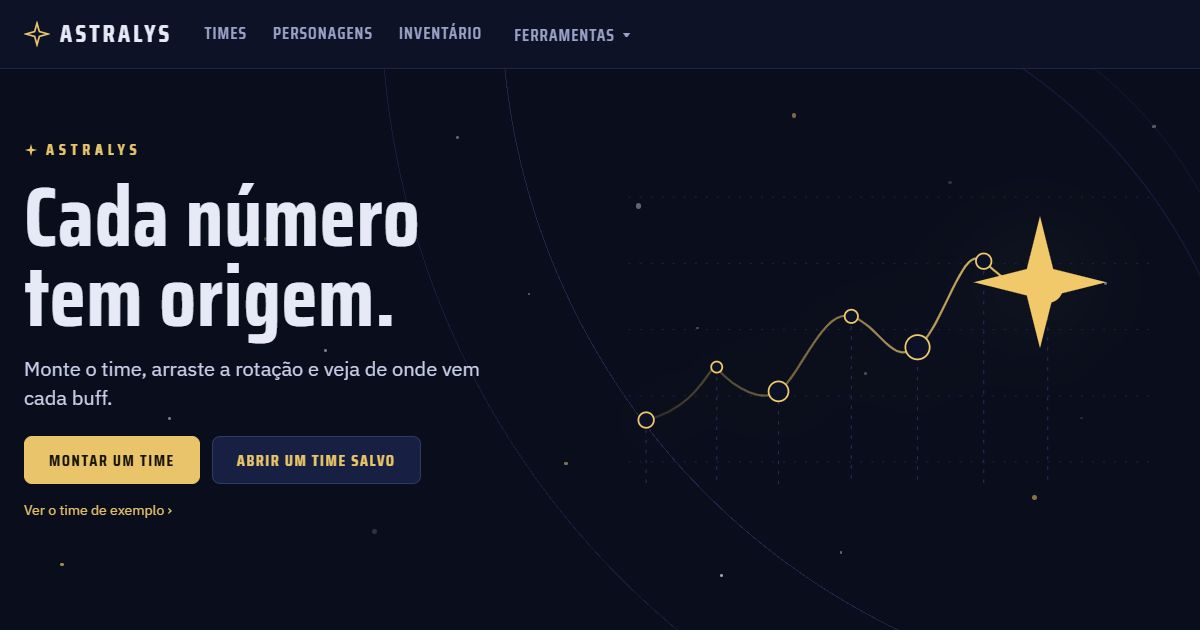
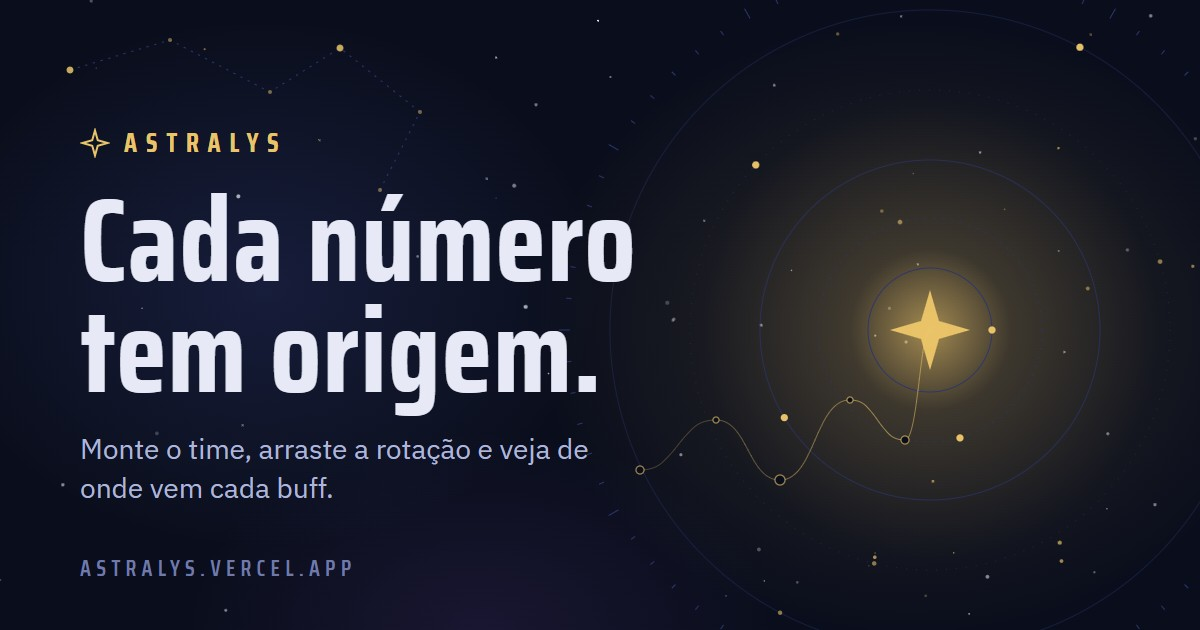
Imagem do link (og.jpg) nova, no estilo da home astral
Céu, constelação, órbitas em volta da estrela dourada e a frase "Cada número tem origem.".
Fonte em scripts/og/og.html; node scripts/og/make-og.cjs gera de novo. ?v=2 nas URLs para os apps de mensagem baixarem a nova.

diff --git a/scripts/og/og.html b/scripts/og/og.html
@@ -1,0 +1,52 @@
+<!doctype html>
+<html lang="pt-BR"><head><meta charset="utf-8">
+<!-- Fonte da imagem de pré-visualização do link (public/og.jpg, 1200×630). Gere de novo com: node scripts/og/make-og.cjs -->
+<link rel="stylesheet" href="https://fonts.googleapis.com/css2?family=Saira+Condensed:wght@500;600;700&family=IBM+Plex+Sans:wght@400;500&display=swap">
+<style>
+  * { box-sizing: border-box; margin: 0; }
+  body { width: 1200px; height: 630px; overflow: hidden; background: #0a0e1c; color: #e7eaf6; font-family: 'IBM Plex Sans', sans-serif; position: relative; }
+  .neb { position: absolute; inset: 0; background:
+    radial-gradient(ellipse 45% 70% at 76% 52%, rgba(241,201,107,.14), transparent 70%),
+    radial-gradient(ellipse 40% 60% at 22% 45%, rgba(90,110,220,.16), transparent 70%),
+    radial-gradient(ellipse 35% 45% at 40% 100%, rgba(130,80,200,.12), transparent 70%); }
+  svg { position: absolute; inset: 0; }
+  .copy { position: absolute; left: 80px; top: 0; bottom: 0; display: flex; flex-direction: column; justify-content: center; gap: 22px; }
+  .brand { display: flex; align-items: center; gap: 14px; font: 700 26px 'Saira Condensed'; letter-spacing: .34em; color: #e9c46a; }
+  h1 { font: 700 118px/.94 'Saira Condensed'; letter-spacing: .01em; }
+  p { font-size: 28px; line-height: 1.4; color: #aeb6d8; max-width: 520px; }
+  .url { position: absolute; left: 80px; bottom: 44px; font: 600 22px 'Saira Condensed'; letter-spacing: .24em; text-transform: uppercase; color: #6f7aa8; }
+</style></head><body>
+<div class="neb"></div>
+<svg width="1200" height="630" viewBox="0 0 1200 630" id="sky"></svg>
+<div class="copy">
+  <div class="brand"><svg width="30" height="30" viewBox="0 0 24 24" style="position:static" fill="none" stroke="#e9c46a" stroke-width="1.6"><path d="M12 2l2.2 7.8L22 12l-7.8 2.2L12 22l-2.2-7.8L2 12l7.8-2.2z"/></svg>ASTRALYS</div>
+  <h1>Cada número<br>tem origem.</h1>
+  <p>Monte o time, arraste a rotação e veja de onde vem cada buff.</p>
+</div>
+<div class="url">astralys.vercel.app</div>
+<script>
+  // Posições fixas: a imagem sai igual a cada geração.
+  const NS = 'http://www.w3.org/2000/svg', sky = document.getElementById('sky');
+  const el = (n, a) => { const e = document.createElementNS(NS, n); for (const k in a) e.setAttribute(k, a[k]); sky.appendChild(e); return e; };
+  let seed = 7; const rnd = () => (seed = (seed * 16807) % 2147483647) / 2147483647;
+  for (let i = 0; i < 70; i++) el('circle', { cx: rnd() * 1200, cy: rnd() * 630, r: 0.6 + rnd() * 1.4, fill: i % 4 ? '#e7eaf6' : '#e9c46a', 'fill-opacity': 0.2 + rnd() * 0.5 });
+  // constelação do canto do título
+  const C = [[70, 70], [170, 40], [270, 92], [340, 48], [420, 112], [380, 190]];
+  el('polyline', { points: C.map(c => c.join(',')).join(' '), fill: 'none', stroke: '#2a3670', 'stroke-dasharray': '2 6' });
+  C.forEach(([x, y], i) => el('circle', { cx: x, cy: y, r: i % 3 ? 2 : 3.4, fill: '#e9c46a', 'fill-opacity': i % 3 ? 0.45 : 0.85 }));
+  // órbitas em volta da estrela do Supremo
+  const cx = 930, cy = 330;
+  const g = el('circle', { cx, cy, r: 230, fill: 'url(#glow)' });
+  const defs = document.createElementNS(NS, 'defs'); defs.innerHTML = '<radialGradient id="glow"><stop offset="0" stop-color="#f1c96b" stop-opacity=".6"/><stop offset=".35" stop-color="#f1c96b" stop-opacity=".13"/><stop offset="1" stop-color="#f1c96b" stop-opacity="0"/></radialGradient>'; sky.prepend(defs);
+  [[62, '', 1], [112, '2 7', 2], [170, '', 1], [240, '1 9', 3], [320, '', 2]].forEach(([r, d, n], i) => {
+    el('circle', { cx, cy, r, fill: 'none', stroke: '#2a3670', 'stroke-opacity': 0.95 - i * 0.14, 'stroke-dasharray': d });
+    for (let k = 0; k < n; k++) { const a = (k / n) * Math.PI * 2 + i * 1.3; el('circle', { cx: cx + Math.cos(a) * r, cy: cy + Math.sin(a) * r, r: k ? 2.2 : 3.6, fill: '#f1c96b', 'fill-opacity': k ? 0.55 : 0.95 }); }
+  });
+  for (let k = 0; k < 72; k++) { const a = (k / 72) * Math.PI * 2, l = k % 6 ? 5 : 11; el('line', { x1: cx + Math.cos(a) * 360, y1: cy + Math.sin(a) * 360, x2: cx + Math.cos(a) * (360 + l), y2: cy + Math.sin(a) * (360 + l), stroke: '#2a3670' }); }
+  // golpes ligados por uma linha dourada que termina na estrela (a rotação)
+  const H = [[640, 470, 4], [716, 420, 3], [780, 480, 5], [850, 400, 3], [905, 440, 4]];
+  H.forEach((h, i) => { if (i) { const [x1, y1] = H[i - 1], [x2, y2] = h, mx = (x1 + x2) / 2; el('path', { d: `M${x1} ${y1} C ${mx} ${y1}, ${mx} ${y2}, ${x2} ${y2}`, fill: 'none', stroke: '#f1c96b', 'stroke-opacity': 0.15 + i * 0.1 }); } });
+  el('path', { d: `M905 440 C 918 440, 920 ${cy}, ${cx} ${cy}`, fill: 'none', stroke: '#f1c96b', 'stroke-opacity': 0.5 });
+  H.forEach(([x, y, r]) => el('circle', { cx: x, cy: y, r, fill: '#0a0e1c', stroke: '#f1c96b', 'stroke-opacity': 0.6, 'stroke-width': 1.3 }));
+  el('path', { d: 'M0 -40 L9 -9 L40 0 L9 9 L0 40 L-9 9 L-40 0 L-9 -9 Z', transform: `translate(${cx} ${cy})`, fill: '#f1c96b', 'fill-opacity': 0.92 });
+</script></body></html>

diff --git a/index.html b/index.html
@@ -18,14 +18,14 @@
     <meta property="og:title" content="Astralys: teorycraft de Genshin Impact com rotação e buffs" />
     <meta property="og:description" content="Monte o time, arraste a rotação e veja quanto dano cada personagem, buff e reação realmente rende." />
     <meta property="og:url" content="https://astralys.vercel.app/" />
-    <meta property="og:image" content="https://astralys.vercel.app/og.jpg" />
+    <meta property="og:image" content="https://astralys.vercel.app/og.jpg?v=2" />
     <meta property="og:image:width" content="1200" />
     <meta property="og:image:height" content="630" />
-    <meta property="og:image:alt" content="Tela inicial do Astralys: golpes de uma rotação ligados por uma linha dourada que termina numa estrela" />
+    <meta property="og:image:alt" content="Astralys: Cada número tem origem. Céu estrelado com órbitas em volta de uma estrela dourada" />
     <meta name="twitter:card" content="summary_large_image" />
     <meta name="twitter:title" content="Astralys: teorycraft de Genshin Impact" />
     <meta name="twitter:description" content="Cada número tem origem. Monte o time, arraste a rotação e veja de onde vem cada buff." />
-    <meta name="twitter:image" content="https://astralys.vercel.app/og.jpg" />
+    <meta name="twitter:image" content="https://astralys.vercel.app/og.jpg?v=2" />
     <script type="application/ld+json">
       {
         "@context": "https://schema.org",
